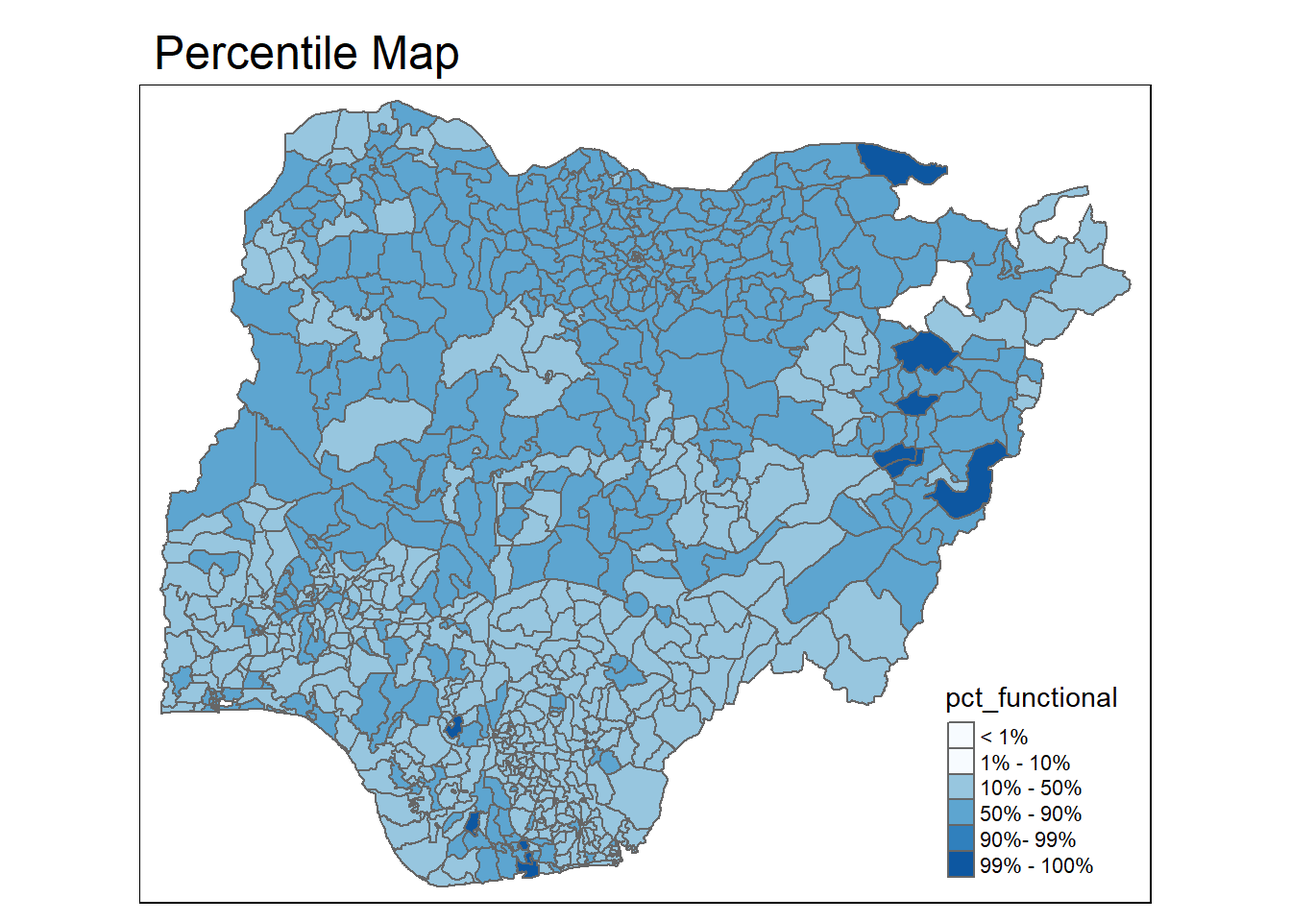
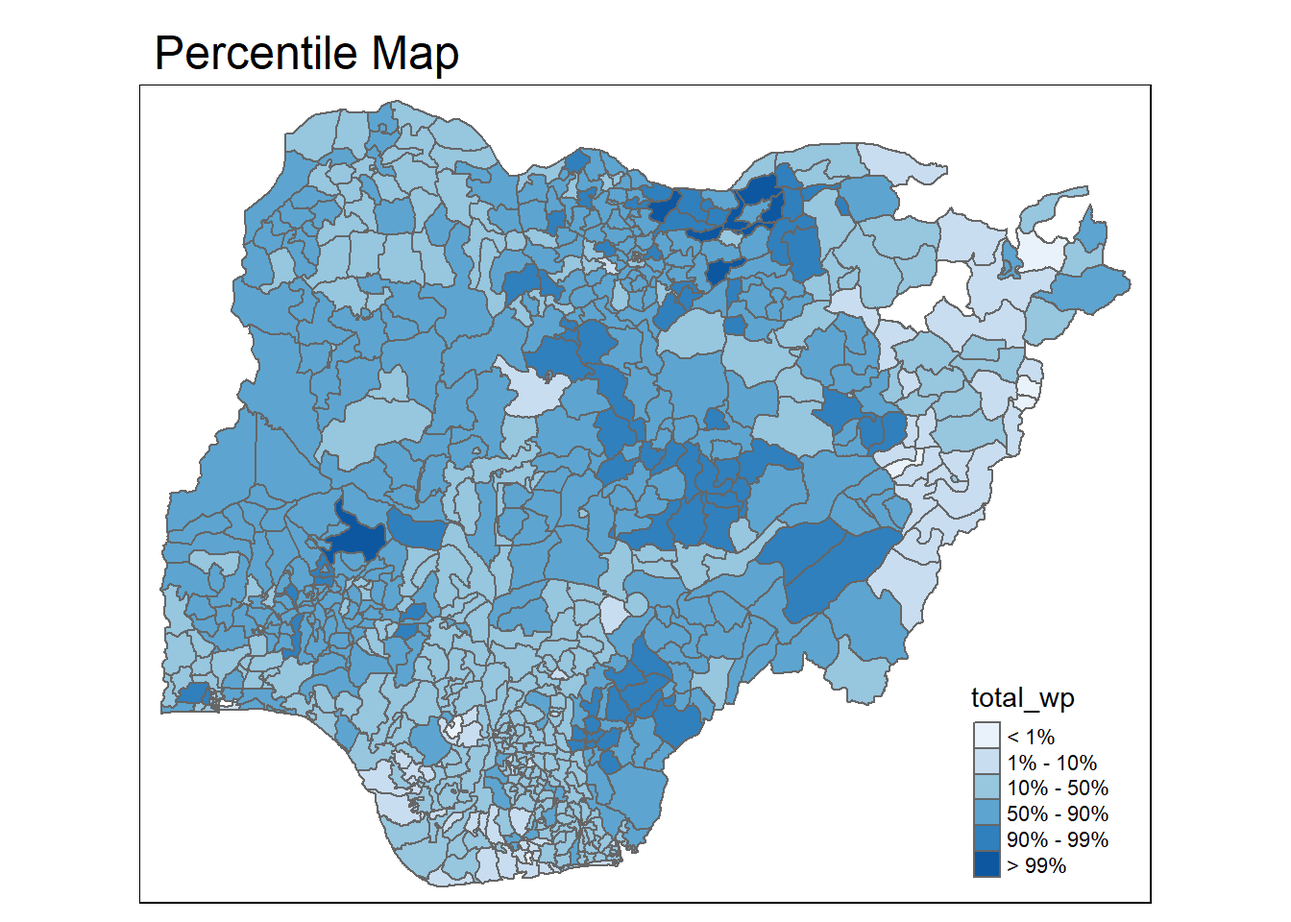
finish up ICE3

Changed region(s): [[0.125, 0.0938, 0.875, 0.9688], [0.7188, 0.75, 0.875, 0.9688]]

diff --git a/_site/in-class_ex/in-class_ex03/in-class_ex03.html b/_site/in-class_ex/in-class_ex03/in-class_ex03.html
@@ -197,9 +197,10 @@ code span.wa { color: #60a0b0; font-weight: bold; font-style: italic; } /* Warni
   <li><a href="#overview" id="toc-overview" class="nav-link active" data-scroll-target="#overview"><span class="toc-section-number">0.1</span>  Overview</a></li>
   <li><a href="#installing-and-loading-packages" id="toc-installing-and-loading-packages" class="nav-link" data-scroll-target="#installing-and-loading-packages"><span class="toc-section-number">0.2</span>  Installing and loading packages</a></li>
   <li><a href="#importing-data" id="toc-importing-data" class="nav-link" data-scroll-target="#importing-data"><span class="toc-section-number">0.3</span>  Importing data</a></li>
-  <li><a href="#visualizing-distribution-of-functional-and-non-functional-water-point" id="toc-visualizing-distribution-of-functional-and-non-functional-water-point" class="nav-link" data-scroll-target="#visualizing-distribution-of-functional-and-non-functional-water-point"><span class="toc-section-number">0.4</span>  Visualizing distribution of functional and non-functional water point</a></li>
+  <li><a href="#visualizing-distribution-of-functional-and-non-functional-water-point-using-choropleth-maps" id="toc-visualizing-distribution-of-functional-and-non-functional-water-point-using-choropleth-maps" class="nav-link" data-scroll-target="#visualizing-distribution-of-functional-and-non-functional-water-point-using-choropleth-maps"><span class="toc-section-number">0.4</span>  Visualizing distribution of functional and non-functional water point using Choropleth Maps</a></li>
   <li><a href="#visualization-using-a-percentile-map" id="toc-visualization-using-a-percentile-map" class="nav-link" data-scroll-target="#visualization-using-a-percentile-map"><span class="toc-section-number">0.5</span>  Visualization using a Percentile Map</a></li>
   <li><a href="#visualizing-using-a-box-plot" id="toc-visualizing-using-a-box-plot" class="nav-link" data-scroll-target="#visualizing-using-a-box-plot"><span class="toc-section-number">0.6</span>  Visualizing using a Box Plot</a></li>
+  <li><a href="#recode-to-zero" id="toc-recode-to-zero" class="nav-link" data-scroll-target="#recode-to-zero"><span class="toc-section-number">0.7</span>  Recode to zero</a></li>
   </ul>
 </nav>
     </div>
@@ -226,7 +227,7 @@ code span.wa { color: #60a0b0; font-weight: bold; font-style: italic; } /* Warni
     <div>
     <div class="quarto-title-meta-heading">Modified</div>
     <div class="quarto-title-meta-contents">
-      <p class="date-modified">January 25, 2023</p>
+      <p class="date-modified">January 26, 2023</p>
     </div>
   </div>
     
@@ -252,8 +253,8 @@ code span.wa { color: #60a0b0; font-weight: bold; font-style: italic; } /* Warni
 <div class="sourceCode cell-code" id="cb2"><pre class="sourceCode r code-with-copy"><code class="sourceCode r"><span id="cb2-1"><a href="#cb2-1" aria-hidden="true" tabindex="-1"></a>NGA_wp <span class="ot">&lt;-</span> <span class="fu">read_rds</span>(<span class="st">"data/rds/NGA_wp.rds"</span>)</span></code><button title="Copy to Clipboard" class="code-copy-button"><i class="bi"></i></button></pre></div>
 </div>
 </section>
-<section id="visualizing-distribution-of-functional-and-non-functional-water-point" class="level3" data-number="0.4">
-<h3 data-number="0.4" class="anchored" data-anchor-id="visualizing-distribution-of-functional-and-non-functional-water-point"><span class="header-section-number">0.4</span> Visualizing distribution of functional and non-functional water point</h3>
+<section id="visualizing-distribution-of-functional-and-non-functional-water-point-using-choropleth-maps" class="level3" data-number="0.4">
+<h3 data-number="0.4" class="anchored" data-anchor-id="visualizing-distribution-of-functional-and-non-functional-water-point-using-choropleth-maps"><span class="header-section-number">0.4</span> Visualizing distribution of functional and non-functional water point using Choropleth Maps</h3>
 <div class="cell">
 <div class="sourceCode cell-code" id="cb3"><pre class="sourceCode r code-with-copy"><code class="sourceCode r"><span id="cb3-1"><a href="#cb3-1" aria-hidden="true" tabindex="-1"></a>p1 <span class="ot">&lt;-</span> <span class="fu">tm_shape</span>(NGA_wp) <span class="sc">+</span> </span>
 <span id="cb3-2"><a href="#cb3-2" aria-hidden="true" tabindex="-1"></a>  <span class="fu">tm_fill</span>(<span class="st">"wp_functional"</span>,</span>
@@ -344,7 +345,8 @@ code span.wa { color: #60a0b0; font-weight: bold; font-style: italic; } /* Warni
 </div>
 </div>
 <div class="cell">
-<div class="sourceCode cell-code" id="cb6"><pre class="sourceCode r code-with-copy"><code class="sourceCode r"><span id="cb6-1"><a href="#cb6-1" aria-hidden="true" tabindex="-1"></a><span class="fu">tmap_arrange</span>(p2, p1, <span class="at">nrow=</span><span class="dv">1</span>)</span></code><button title="Copy to Clipboard" class="code-copy-button"><i class="bi"></i></button></pre></div>
+<div class="sourceCode cell-code" id="cb6"><pre class="sourceCode r code-with-copy"><code class="sourceCode r"><span id="cb6-1"><a href="#cb6-1" aria-hidden="true" tabindex="-1"></a><span class="co"># show both together on one row</span></span>
+<span id="cb6-2"><a href="#cb6-2" aria-hidden="true" tabindex="-1"></a><span class="fu">tmap_arrange</span>(p2, p1, <span class="at">nrow=</span><span class="dv">1</span>)</span></code><button title="Copy to Clipboard" class="code-copy-button"><i class="bi"></i></button></pre></div>
 <div class="cell-output-display">
 <p><img src="in-class_ex03_files/figure-html/unnamed-chunk-6-1.png" class="img-fluid" width="672"></p>
 </div>
@@ -353,7 +355,7 @@ code span.wa { color: #60a0b0; font-weight: bold; font-style: italic; } /* Warni
 <div class="sourceCode cell-code" id="cb7"><pre class="sourceCode r code-with-copy"><code class="sourceCode r"><span id="cb7-1"><a href="#cb7-1" aria-hidden="true" tabindex="-1"></a><span class="co"># You can even show both maps as one by using Rates: usually we do this to see if both categories tell the same story</span></span>
 <span id="cb7-2"><a href="#cb7-2" aria-hidden="true" tabindex="-1"></a>NGA_wp <span class="ot">&lt;-</span> NGA_wp <span class="sc">%&gt;%</span></span>
 <span id="cb7-3"><a href="#cb7-3" aria-hidden="true" tabindex="-1"></a>  </span>
-<span id="cb7-4"><a href="#cb7-4" aria-hidden="true" tabindex="-1"></a>  <span class="co"># calc % (i.e., rate) of functional and non-functional water points</span></span>
+<span id="cb7-4"><a href="#cb7-4" aria-hidden="true" tabindex="-1"></a>  <span class="co"># use mutate() to calc % (i.e., rate) of functional and non-functional water points</span></span>
 <span id="cb7-5"><a href="#cb7-5" aria-hidden="true" tabindex="-1"></a>  <span class="fu">mutate</span>(<span class="at">pct_functional =</span> wp_functional<span class="sc">/</span>total_wp) <span class="sc">%&gt;%</span></span>
 <span id="cb7-6"><a href="#cb7-6" aria-hidden="true" tabindex="-1"></a>  <span class="fu">mutate</span>(<span class="at">pct_nonfunctional =</span> wp_nonfunctional<span class="sc">/</span>total_wp)</span></code><button title="Copy to Clipboard" class="code-copy-button"><i class="bi"></i></button></pre></div>
 </div>
@@ -394,60 +396,151 @@ code span.wa { color: #60a0b0; font-weight: bold; font-style: italic; } /* Warni
 0.0000000 0.0000000 0.2169811 0.4791667 0.8611111 1.0000000 1.0000000 </code></pre>
 </div>
 </div>
+<section id="writing-functions-to-do-the-same-functionality-for-specific-data-sets" class="level4" data-number="0.5.1">
+<h4 data-number="0.5.1" class="anchored" data-anchor-id="writing-functions-to-do-the-same-functionality-for-specific-data-sets"><span class="header-section-number">0.5.1</span> Writing functions to do the same functionality for specific data sets…</h4>
 <div class="cell">
-<div class="sourceCode cell-code" id="cb11"><pre class="sourceCode r code-with-copy"><code class="sourceCode r"><span id="cb11-1"><a href="#cb11-1" aria-hidden="true" tabindex="-1"></a><span class="co"># creating a function to do whatever we did above so we can insert different objects to do the same thing</span></span>
+<div class="sourceCode cell-code" id="cb11"><pre class="sourceCode r code-with-copy"><code class="sourceCode r"><span id="cb11-1"><a href="#cb11-1" aria-hidden="true" tabindex="-1"></a><span class="co"># R function to extract a variable (i.e., wp_nonfunctional as a vector out of an sf data.frame)</span></span>
 <span id="cb11-2"><a href="#cb11-2" aria-hidden="true" tabindex="-1"></a>get.var <span class="ot">&lt;-</span> <span class="cf">function</span>(vname, df) {</span>
 <span id="cb11-3"><a href="#cb11-3" aria-hidden="true" tabindex="-1"></a>  v <span class="ot">&lt;-</span> df[vname] <span class="sc">%&gt;%</span></span>
 <span id="cb11-4"><a href="#cb11-4" aria-hidden="true" tabindex="-1"></a>    <span class="fu">st_set_geometry</span>(<span class="cn">NULL</span>)</span>
 <span id="cb11-5"><a href="#cb11-5" aria-hidden="true" tabindex="-1"></a>    v <span class="ot">&lt;-</span> <span class="fu">unname</span>(v[,<span class="dv">1</span>])</span>
-<span id="cb11-6"><a href="#cb11-6" aria-hidden="true" tabindex="-1"></a>  <span class="fu">return</span>(v)</span>
-<span id="cb11-7"><a href="#cb11-7" aria-hidden="true" tabindex="-1"></a>}</span></code><button title="Copy to Clipboard" class="code-copy-button"><i class="bi"></i></button></pre></div>
+<span id="cb11-6"><a href="#cb11-6" aria-hidden="true" tabindex="-1"></a>    </span>
+<span id="cb11-7"><a href="#cb11-7" aria-hidden="true" tabindex="-1"></a>  <span class="co"># return vector with values (without a col name)</span></span>
+<span id="cb11-8"><a href="#cb11-8" aria-hidden="true" tabindex="-1"></a>  <span class="fu">return</span>(v)</span>
+<span id="cb11-9"><a href="#cb11-9" aria-hidden="true" tabindex="-1"></a>}</span></code><button title="Copy to Clipboard" class="code-copy-button"><i class="bi"></i></button></pre></div>
 </div>
 <div class="cell">
-<div class="sourceCode cell-code" id="cb12"><pre class="sourceCode r code-with-copy"><code class="sourceCode r"><span id="cb12-1"><a href="#cb12-1" aria-hidden="true" tabindex="-1"></a>percentmap <span class="ot">&lt;-</span> <span class="cf">function</span>(vname, df, <span class="at">legtitle=</span><span class="cn">NA</span>, <span class="at">mtitle=</span><span class="st">"Percentile Map"</span>) {</span>
-<span id="cb12-2"><a href="#cb12-2" aria-hidden="true" tabindex="-1"></a>  percent <span class="ot">&lt;-</span> <span class="fu">c</span>(<span class="dv">0</span>, .<span class="dv">01</span>, .<span class="dv">1</span>, .<span class="dv">5</span>, .<span class="dv">9</span>, .<span class="dv">99</span>, <span class="dv">1</span>)</span>
-<span id="cb12-3"><a href="#cb12-3" aria-hidden="true" tabindex="-1"></a>  var <span class="ot">&lt;-</span> <span class="fu">quantile</span>(var, percent)</span>
-<span id="cb12-4"><a href="#cb12-4" aria-hidden="true" tabindex="-1"></a>  bperc <span class="ot">&lt;-</span> <span class="fu">quantile</span>(var, percent)</span>
-<span id="cb12-5"><a href="#cb12-5" aria-hidden="true" tabindex="-1"></a>  <span class="fu">tm_shape</span>(df) <span class="sc">+</span></span>
-<span id="cb12-6"><a href="#cb12-6" aria-hidden="true" tabindex="-1"></a>  <span class="fu">tm_polygons</span>() <span class="sc">+</span> </span>
-<span id="cb12-7"><a href="#cb12-7" aria-hidden="true" tabindex="-1"></a>  <span class="fu">tm_shape</span>(df) <span class="sc">+</span> </span>
-<span id="cb12-8"><a href="#cb12-8" aria-hidden="true" tabindex="-1"></a>    <span class="fu">tm_fill</span>(vname,</span>
-<span id="cb12-9"><a href="#cb12-9" aria-hidden="true" tabindex="-1"></a>            <span class="at">title=</span>legtitle,</span>
-<span id="cb12-10"><a href="#cb12-10" aria-hidden="true" tabindex="-1"></a>            <span class="at">breaks=</span>bperc,</span>
-<span id="cb12-11"><a href="#cb12-11" aria-hidden="true" tabindex="-1"></a>            <span class="at">palette=</span><span class="st">"Blues"</span>,</span>
-<span id="cb12-12"><a href="#cb12-12" aria-hidden="true" tabindex="-1"></a>            <span class="at">labels=</span><span class="fu">c</span>(<span class="st">"&lt; 1%"</span>, <span class="st">"1% - 10%"</span>, <span class="st">"10% - 50%"</span>, <span class="st">"50% - 90%"</span>, <span class="st">"90%- 99%"</span>, <span class="st">"99% - 100%"</span>)) <span class="sc">+</span> </span>
-<span id="cb12-13"><a href="#cb12-13" aria-hidden="true" tabindex="-1"></a>    <span class="fu">tm_borders</span>() <span class="sc">+</span></span>
-<span id="cb12-14"><a href="#cb12-14" aria-hidden="true" tabindex="-1"></a>    <span class="fu">tm_layout</span>(<span class="at">main.title =</span> mtitle,</span>
-<span id="cb12-15"><a href="#cb12-15" aria-hidden="true" tabindex="-1"></a>              <span class="at">title.position =</span> <span class="fu">c</span>(<span class="st">"right"</span>, <span class="st">"bottom"</span>))</span>
-<span id="cb12-16"><a href="#cb12-16" aria-hidden="true" tabindex="-1"></a>}</span></code><button title="Copy to Clipboard" class="code-copy-button"><i class="bi"></i></button></pre></div>
+<div class="sourceCode cell-code" id="cb12"><pre class="sourceCode r code-with-copy"><code class="sourceCode r"><span id="cb12-1"><a href="#cb12-1" aria-hidden="true" tabindex="-1"></a><span class="co"># percentile mapping function</span></span>
+<span id="cb12-2"><a href="#cb12-2" aria-hidden="true" tabindex="-1"></a>percentmap <span class="ot">&lt;-</span> <span class="cf">function</span>(vnam, df, <span class="at">legtitle=</span><span class="cn">NA</span>, <span class="at">mtitle=</span><span class="st">"Percentile Map"</span>){</span>
+<span id="cb12-3"><a href="#cb12-3" aria-hidden="true" tabindex="-1"></a>  percent <span class="ot">&lt;-</span> <span class="fu">c</span>(<span class="dv">0</span>,.<span class="dv">01</span>,.<span class="dv">1</span>,.<span class="dv">5</span>,.<span class="dv">9</span>,.<span class="dv">99</span>,<span class="dv">1</span>)</span>
+<span id="cb12-4"><a href="#cb12-4" aria-hidden="true" tabindex="-1"></a>  var <span class="ot">&lt;-</span> <span class="fu">get.var</span>(vnam, df)</span>
+<span id="cb12-5"><a href="#cb12-5" aria-hidden="true" tabindex="-1"></a>  bperc <span class="ot">&lt;-</span> <span class="fu">quantile</span>(var, percent)</span>
+<span id="cb12-6"><a href="#cb12-6" aria-hidden="true" tabindex="-1"></a>  <span class="fu">tm_shape</span>(df) <span class="sc">+</span></span>
+<span id="cb12-7"><a href="#cb12-7" aria-hidden="true" tabindex="-1"></a>  <span class="fu">tm_polygons</span>() <span class="sc">+</span></span>
+<span id="cb12-8"><a href="#cb12-8" aria-hidden="true" tabindex="-1"></a>  <span class="fu">tm_shape</span>(df) <span class="sc">+</span></span>
+<span id="cb12-9"><a href="#cb12-9" aria-hidden="true" tabindex="-1"></a>     <span class="fu">tm_fill</span>(vnam,</span>
+<span id="cb12-10"><a href="#cb12-10" aria-hidden="true" tabindex="-1"></a>             <span class="at">title=</span>legtitle,</span>
+<span id="cb12-11"><a href="#cb12-11" aria-hidden="true" tabindex="-1"></a>             <span class="at">breaks=</span>bperc,</span>
+<span id="cb12-12"><a href="#cb12-12" aria-hidden="true" tabindex="-1"></a>             <span class="at">palette=</span><span class="st">"Blues"</span>,</span>
+<span id="cb12-13"><a href="#cb12-13" aria-hidden="true" tabindex="-1"></a>          <span class="at">labels=</span><span class="fu">c</span>(<span class="st">"&lt; 1%"</span>, <span class="st">"1% - 10%"</span>, <span class="st">"10% - 50%"</span>, <span class="st">"50% - 90%"</span>, <span class="st">"90% - 99%"</span>, <span class="st">"&gt; 99%"</span>))  <span class="sc">+</span></span>
+<span id="cb12-14"><a href="#cb12-14" aria-hidden="true" tabindex="-1"></a>  <span class="fu">tm_borders</span>() <span class="sc">+</span></span>
+<span id="cb12-15"><a href="#cb12-15" aria-hidden="true" tabindex="-1"></a>  <span class="fu">tm_layout</span>(<span class="at">main.title =</span> mtitle, </span>
+<span id="cb12-16"><a href="#cb12-16" aria-hidden="true" tabindex="-1"></a>            <span class="at">title.position =</span> <span class="fu">c</span>(<span class="st">"right"</span>,<span class="st">"bottom"</span>))</span>
+<span id="cb12-17"><a href="#cb12-17" aria-hidden="true" tabindex="-1"></a>}</span></code><button title="Copy to Clipboard" class="code-copy-button"><i class="bi"></i></button></pre></div>
 </div>
 <div class="cell">
-<div class="sourceCode cell-code" id="cb13"><pre class="sourceCode r code-with-copy"><code class="sourceCode r"><span id="cb13-1"><a href="#cb13-1" aria-hidden="true" tabindex="-1"></a>var <span class="ot">=</span> <span class="fu">get.var</span>(<span class="st">"pct_functional"</span>, NGA_wp)</span>
-<span id="cb13-2"><a href="#cb13-2" aria-hidden="true" tabindex="-1"></a><span class="fu">percentmap</span>(<span class="st">"pct_functional"</span>, NGA_wp,)</span></code><button title="Copy to Clipboard" class="code-copy-button"><i class="bi"></i></button></pre></div>
+<div class="sourceCode cell-code" id="cb13"><pre class="sourceCode r code-with-copy"><code class="sourceCode r"><span id="cb13-1"><a href="#cb13-1" aria-hidden="true" tabindex="-1"></a><span class="co"># test the function</span></span>
+<span id="cb13-2"><a href="#cb13-2" aria-hidden="true" tabindex="-1"></a><span class="fu">percentmap</span>(<span class="st">"total_wp"</span>, NGA_wp)</span></code><button title="Copy to Clipboard" class="code-copy-button"><i class="bi"></i></button></pre></div>
 <div class="cell-output-display">
 <p><img src="in-class_ex03_files/figure-html/unnamed-chunk-12-1.png" class="img-fluid" width="672"></p>
 </div>
 </div>
-<div class="cell">
-<div class="sourceCode cell-code" id="cb14"><pre class="sourceCode r code-with-copy"><code class="sourceCode r"><span id="cb14-1"><a href="#cb14-1" aria-hidden="true" tabindex="-1"></a><span class="fu">percentmap</span>(<span class="st">"pct_nonfunctional"</span>, NGA_wp)</span></code><button title="Copy to Clipboard" class="code-copy-button"><i class="bi"></i></button></pre></div>
-<div class="cell-output-display">
-<p><img src="in-class_ex03_files/figure-html/unnamed-chunk-13-1.png" class="img-fluid" width="672"></p>
-</div>
-</div>
+</section>
 </section>
 <section id="visualizing-using-a-box-plot" class="level3" data-number="0.6">
 <h3 data-number="0.6" class="anchored" data-anchor-id="visualizing-using-a-box-plot"><span class="header-section-number">0.6</span> Visualizing using a Box Plot</h3>
 <div class="cell">
-<div class="sourceCode cell-code" id="cb15"><pre class="sourceCode r code-with-copy"><code class="sourceCode r"><span id="cb15-1"><a href="#cb15-1" aria-hidden="true" tabindex="-1"></a><span class="fu">ggplot</span>(<span class="at">data =</span> NGA_wp,</span>
-<span id="cb15-2"><a href="#cb15-2" aria-hidden="true" tabindex="-1"></a>       <span class="fu">aes</span>(<span class="at">x =</span> <span class="st">""</span>,</span>
-<span id="cb15-3"><a href="#cb15-3" aria-hidden="true" tabindex="-1"></a>           <span class="at">y =</span> wp_nonfunctional)) <span class="sc">+</span> </span>
-<span id="cb15-4"><a href="#cb15-4" aria-hidden="true" tabindex="-1"></a>  <span class="fu">geom_boxplot</span>()</span></code><button title="Copy to Clipboard" class="code-copy-button"><i class="bi"></i></button></pre></div>
+<div class="sourceCode cell-code" id="cb14"><pre class="sourceCode r code-with-copy"><code class="sourceCode r"><span id="cb14-1"><a href="#cb14-1" aria-hidden="true" tabindex="-1"></a><span class="co"># boxplot is as augmented quartile map with an additional lower and upper category.</span></span>
+<span id="cb14-2"><a href="#cb14-2" aria-hidden="true" tabindex="-1"></a><span class="fu">ggplot</span>(<span class="at">data =</span> NGA_wp,</span>
+<span id="cb14-3"><a href="#cb14-3" aria-hidden="true" tabindex="-1"></a>       <span class="fu">aes</span>(<span class="at">x =</span> <span class="st">""</span>,</span>
+<span id="cb14-4"><a href="#cb14-4" aria-hidden="true" tabindex="-1"></a>           <span class="at">y =</span> wp_nonfunctional)) <span class="sc">+</span> </span>
+<span id="cb14-5"><a href="#cb14-5" aria-hidden="true" tabindex="-1"></a>  <span class="fu">geom_boxplot</span>()</span></code><button title="Copy to Clipboard" class="code-copy-button"><i class="bi"></i></button></pre></div>
 <div class="cell-output-display">
-<p><img src="in-class_ex03_files/figure-html/unnamed-chunk-14-1.png" class="img-fluid" width="672"></p>
+<p><img src="in-class_ex03_files/figure-html/unnamed-chunk-13-1.png" class="img-fluid" width="672"></p>
 </div>
 </div>
 <div class="cell">
-<div class="sourceCode cell-code" id="cb16"><pre class="sourceCode r code-with-copy"><code class="sourceCode r"><span id="cb16-1"><a href="#cb16-1" aria-hidden="true" tabindex="-1"></a><span class="co"># creating a boxplot function</span></span></code><button title="Copy to Clipboard" class="code-copy-button"><i class="bi"></i></button></pre></div>
+<div class="sourceCode cell-code" id="cb15"><pre class="sourceCode r code-with-copy"><code class="sourceCode r"><span id="cb15-1"><a href="#cb15-1" aria-hidden="true" tabindex="-1"></a><span class="co"># creating a boxbreaks function</span></span>
+<span id="cb15-2"><a href="#cb15-2" aria-hidden="true" tabindex="-1"></a><span class="co"># arguments - v: vector with observations, mult: multiplier for IQR (default 1.5)</span></span>
+<span id="cb15-3"><a href="#cb15-3" aria-hidden="true" tabindex="-1"></a><span class="co"># returns - bb: vector with 7 breakpoints compute quartile and fences</span></span>
+<span id="cb15-4"><a href="#cb15-4" aria-hidden="true" tabindex="-1"></a></span>
+<span id="cb15-5"><a href="#cb15-5" aria-hidden="true" tabindex="-1"></a>boxbreaks <span class="ot">&lt;-</span> <span class="cf">function</span>(v,<span class="at">mult=</span><span class="fl">1.5</span>) {</span>
+<span id="cb15-6"><a href="#cb15-6" aria-hidden="true" tabindex="-1"></a>  qv <span class="ot">&lt;-</span> <span class="fu">unname</span>(<span class="fu">quantile</span>(v))</span>
+<span id="cb15-7"><a href="#cb15-7" aria-hidden="true" tabindex="-1"></a>  iqr <span class="ot">&lt;-</span> qv[<span class="dv">4</span>] <span class="sc">-</span> qv[<span class="dv">2</span>]</span>
+<span id="cb15-8"><a href="#cb15-8" aria-hidden="true" tabindex="-1"></a>  upfence <span class="ot">&lt;-</span> qv[<span class="dv">4</span>] <span class="sc">+</span> mult <span class="sc">*</span> iqr</span>
+<span id="cb15-9"><a href="#cb15-9" aria-hidden="true" tabindex="-1"></a>  lofence <span class="ot">&lt;-</span> qv[<span class="dv">2</span>] <span class="sc">-</span> mult <span class="sc">*</span> iqr</span>
+<span id="cb15-10"><a href="#cb15-10" aria-hidden="true" tabindex="-1"></a>  <span class="co"># initialize break points vector</span></span>
+<span id="cb15-11"><a href="#cb15-11" aria-hidden="true" tabindex="-1"></a>  bb <span class="ot">&lt;-</span> <span class="fu">vector</span>(<span class="at">mode=</span><span class="st">"numeric"</span>,<span class="at">length=</span><span class="dv">7</span>)</span>
+<span id="cb15-12"><a href="#cb15-12" aria-hidden="true" tabindex="-1"></a>  <span class="co"># logic for lower and upper fences</span></span>
+<span id="cb15-13"><a href="#cb15-13" aria-hidden="true" tabindex="-1"></a>  <span class="cf">if</span> (lofence <span class="sc">&lt;</span> qv[<span class="dv">1</span>]) {  <span class="co"># no lower outliers</span></span>
+<span id="cb15-14"><a href="#cb15-14" aria-hidden="true" tabindex="-1"></a>    bb[<span class="dv">1</span>] <span class="ot">&lt;-</span> lofence</span>
+<span id="cb15-15"><a href="#cb15-15" aria-hidden="true" tabindex="-1"></a>    bb[<span class="dv">2</span>] <span class="ot">&lt;-</span> <span class="fu">floor</span>(qv[<span class="dv">1</span>])</span>
+<span id="cb15-16"><a href="#cb15-16" aria-hidden="true" tabindex="-1"></a>  } <span class="cf">else</span> {</span>
+<span id="cb15-17"><a href="#cb15-17" aria-hidden="true" tabindex="-1"></a>    bb[<span class="dv">2</span>] <span class="ot">&lt;-</span> lofence</span>
+<span id="cb15-18"><a href="#cb15-18" aria-hidden="true" tabindex="-1"></a>    bb[<span class="dv">1</span>] <span class="ot">&lt;-</span> qv[<span class="dv">1</span>]</span>
+<span id="cb15-19"><a href="#cb15-19" aria-hidden="true" tabindex="-1"></a>  }</span>
+<span id="cb15-20"><a href="#cb15-20" aria-hidden="true" tabindex="-1"></a>  <span class="cf">if</span> (upfence <span class="sc">&gt;</span> qv[<span class="dv">5</span>]) { <span class="co"># no upper outliers</span></span>
+<span id="cb15-21"><a href="#cb15-21" aria-hidden="true" tabindex="-1"></a>    bb[<span class="dv">7</span>] <span class="ot">&lt;-</span> upfence</span>
+<span id="cb15-22"><a href="#cb15-22" aria-hidden="true" tabindex="-1"></a>    bb[<span class="dv">6</span>] <span class="ot">&lt;-</span> <span class="fu">ceiling</span>(qv[<span class="dv">5</span>])</span>
+<span id="cb15-23"><a href="#cb15-23" aria-hidden="true" tabindex="-1"></a>  } <span class="cf">else</span> {</span>
+<span id="cb15-24"><a href="#cb15-24" aria-hidden="true" tabindex="-1"></a>    bb[<span class="dv">6</span>] <span class="ot">&lt;-</span> upfence</span>
+<span id="cb15-25"><a href="#cb15-25" aria-hidden="true" tabindex="-1"></a>    bb[<span class="dv">7</span>] <span class="ot">&lt;-</span> qv[<span class="dv">5</span>]</span>
+<span id="cb15-26"><a href="#cb15-26" aria-hidden="true" tabindex="-1"></a>  }</span>
+<span id="cb15-27"><a href="#cb15-27" aria-hidden="true" tabindex="-1"></a>  bb[<span class="dv">3</span><span class="sc">:</span><span class="dv">5</span>] <span class="ot">&lt;-</span> qv[<span class="dv">2</span><span class="sc">:</span><span class="dv">4</span>]</span>
+<span id="cb15-28"><a href="#cb15-28" aria-hidden="true" tabindex="-1"></a>  <span class="fu">return</span>(bb)</span>
+<span id="cb15-29"><a href="#cb15-29" aria-hidden="true" tabindex="-1"></a>}</span></code><button title="Copy to Clipboard" class="code-copy-button"><i class="bi"></i></button></pre></div>
+</div>
+<div class="cell">
+<div class="sourceCode cell-code" id="cb16"><pre class="sourceCode r code-with-copy"><code class="sourceCode r"><span id="cb16-1"><a href="#cb16-1" aria-hidden="true" tabindex="-1"></a><span class="co"># creating the get.var function</span></span>
+<span id="cb16-2"><a href="#cb16-2" aria-hidden="true" tabindex="-1"></a><span class="co"># arguments - vname: variable name (in quotes), df: name of sf data.frame</span></span>
+<span id="cb16-3"><a href="#cb16-3" aria-hidden="true" tabindex="-1"></a><span class="co"># returns - v: vector with values (without col name)</span></span>
+<span id="cb16-4"><a href="#cb16-4" aria-hidden="true" tabindex="-1"></a>get.var <span class="ot">&lt;-</span> <span class="cf">function</span>(vname,df) {</span>
+<span id="cb16-5"><a href="#cb16-5" aria-hidden="true" tabindex="-1"></a>  v <span class="ot">&lt;-</span> df[vname] <span class="sc">%&gt;%</span> <span class="fu">st_set_geometry</span>(<span class="cn">NULL</span>)</span>
+<span id="cb16-6"><a href="#cb16-6" aria-hidden="true" tabindex="-1"></a>  v <span class="ot">&lt;-</span> <span class="fu">unname</span>(v[,<span class="dv">1</span>])</span>
+<span id="cb16-7"><a href="#cb16-7" aria-hidden="true" tabindex="-1"></a>  <span class="fu">return</span>(v)</span>
+<span id="cb16-8"><a href="#cb16-8" aria-hidden="true" tabindex="-1"></a>}</span></code><button title="Copy to Clipboard" class="code-copy-button"><i class="bi"></i></button></pre></div>
+</div>
+<div class="cell">
+<div class="sourceCode cell-code" id="cb17"><pre class="sourceCode r code-with-copy"><code class="sourceCode r"><span id="cb17-1"><a href="#cb17-1" aria-hidden="true" tabindex="-1"></a><span class="co"># test function</span></span>
+<span id="cb17-2"><a href="#cb17-2" aria-hidden="true" tabindex="-1"></a>var <span class="ot">&lt;-</span> <span class="fu">get.var</span>(<span class="st">"wp_nonfunctional"</span>, NGA_wp) </span>
+<span id="cb17-3"><a href="#cb17-3" aria-hidden="true" tabindex="-1"></a><span class="fu">boxbreaks</span>(var)</span></code><button title="Copy to Clipboard" class="code-copy-button"><i class="bi"></i></button></pre></div>
+<div class="cell-output cell-output-stdout">
+<pre><code>[1] -56.5   0.0  14.0  34.0  61.0 131.5 278.0</code></pre>
+</div>
+</div>
+<section id="boxmap-function" class="level4" data-number="0.6.1">
+<h4 data-number="0.6.1" class="anchored" data-anchor-id="boxmap-function"><span class="header-section-number">0.6.1</span> Boxmap function</h4>
+<div class="cell">
+<div class="sourceCode cell-code" id="cb19"><pre class="sourceCode r code-with-copy"><code class="sourceCode r"><span id="cb19-1"><a href="#cb19-1" aria-hidden="true" tabindex="-1"></a>boxmap <span class="ot">&lt;-</span> <span class="cf">function</span>(vnam, df, </span>
+<span id="cb19-2"><a href="#cb19-2" aria-hidden="true" tabindex="-1"></a>                   <span class="at">legtitle=</span><span class="cn">NA</span>,</span>
+<span id="cb19-3"><a href="#cb19-3" aria-hidden="true" tabindex="-1"></a>                   <span class="at">mtitle=</span><span class="st">"Box Map"</span>,</span>
+<span id="cb19-4"><a href="#cb19-4" aria-hidden="true" tabindex="-1"></a>                   <span class="at">mult=</span><span class="fl">1.5</span>){</span>
+<span id="cb19-5"><a href="#cb19-5" aria-hidden="true" tabindex="-1"></a>  var <span class="ot">&lt;-</span> <span class="fu">get.var</span>(vnam,df)</span>
+<span id="cb19-6"><a href="#cb19-6" aria-hidden="true" tabindex="-1"></a>  bb <span class="ot">&lt;-</span> <span class="fu">boxbreaks</span>(var)</span>
+<span id="cb19-7"><a href="#cb19-7" aria-hidden="true" tabindex="-1"></a>  <span class="fu">tm_shape</span>(df) <span class="sc">+</span></span>
+<span id="cb19-8"><a href="#cb19-8" aria-hidden="true" tabindex="-1"></a>    <span class="fu">tm_polygons</span>() <span class="sc">+</span></span>
+<span id="cb19-9"><a href="#cb19-9" aria-hidden="true" tabindex="-1"></a>  <span class="fu">tm_shape</span>(df) <span class="sc">+</span></span>
+<span id="cb19-10"><a href="#cb19-10" aria-hidden="true" tabindex="-1"></a>     <span class="fu">tm_fill</span>(vnam,<span class="at">title=</span>legtitle,</span>
+<span id="cb19-11"><a href="#cb19-11" aria-hidden="true" tabindex="-1"></a>             <span class="at">breaks=</span>bb,</span>
+<span id="cb19-12"><a href="#cb19-12" aria-hidden="true" tabindex="-1"></a>             <span class="at">palette=</span><span class="st">"Set3"</span>,</span>
+<span id="cb19-13"><a href="#cb19-13" aria-hidden="true" tabindex="-1"></a>          <span class="at">labels =</span> <span class="fu">c</span>(<span class="st">"lower outlier"</span>, </span>
+<span id="cb19-14"><a href="#cb19-14" aria-hidden="true" tabindex="-1"></a>                     <span class="st">"&lt; 25%"</span>, </span>
+<span id="cb19-15"><a href="#cb19-15" aria-hidden="true" tabindex="-1"></a>                     <span class="st">"25% - 50%"</span>, </span>
+<span id="cb19-16"><a href="#cb19-16" aria-hidden="true" tabindex="-1"></a>                     <span class="st">"50% - 75%"</span>,</span>
+<span id="cb19-17"><a href="#cb19-17" aria-hidden="true" tabindex="-1"></a>                     <span class="st">"&gt; 75%"</span>, </span>
+<span id="cb19-18"><a href="#cb19-18" aria-hidden="true" tabindex="-1"></a>                     <span class="st">"upper outlier"</span>))  <span class="sc">+</span></span>
+<span id="cb19-19"><a href="#cb19-19" aria-hidden="true" tabindex="-1"></a>  <span class="fu">tm_borders</span>() <span class="sc">+</span></span>
+<span id="cb19-20"><a href="#cb19-20" aria-hidden="true" tabindex="-1"></a>  <span class="fu">tm_layout</span>(<span class="at">main.title =</span> mtitle, </span>
+<span id="cb19-21"><a href="#cb19-21" aria-hidden="true" tabindex="-1"></a>            <span class="at">title.position =</span> <span class="fu">c</span>(<span class="st">"left"</span>,</span>
+<span id="cb19-22"><a href="#cb19-22" aria-hidden="true" tabindex="-1"></a>                               <span class="st">"top"</span>))</span>
+<span id="cb19-23"><a href="#cb19-23" aria-hidden="true" tabindex="-1"></a>}</span></code><button title="Copy to Clipboard" class="code-copy-button"><i class="bi"></i></button></pre></div>
+</div>
+<div class="cell">
+<div class="sourceCode cell-code" id="cb20"><pre class="sourceCode r code-with-copy"><code class="sourceCode r"><span id="cb20-1"><a href="#cb20-1" aria-hidden="true" tabindex="-1"></a><span class="fu">tmap_mode</span>(<span class="st">"plot"</span>)</span>
+<span id="cb20-2"><a href="#cb20-2" aria-hidden="true" tabindex="-1"></a><span class="fu">boxmap</span>(<span class="st">"wp_nonfunctional"</span>, NGA_wp)</span></code><button title="Copy to Clipboard" class="code-copy-button"><i class="bi"></i></button></pre></div>
+<div class="cell-output-display">
+<p><img src="in-class_ex03_files/figure-html/unnamed-chunk-18-1.png" class="img-fluid" width="672"></p>
+</div>
+</div>
+</section>
+</section>
+<section id="recode-to-zero" class="level3" data-number="0.7">
+<h3 data-number="0.7" class="anchored" data-anchor-id="recode-to-zero"><span class="header-section-number">0.7</span> Recode to zero</h3>
+<p>This code chunk is used to recode LGAs with zero total water points into NA.</p>
+<div class="cell">
+<div class="sourceCode cell-code" id="cb21"><pre class="sourceCode r code-with-copy"><code class="sourceCode r"><span id="cb21-1"><a href="#cb21-1" aria-hidden="true" tabindex="-1"></a>NGA_wp <span class="ot">&lt;-</span> NGA_wp <span class="sc">%&gt;%</span></span>
+<span id="cb21-2"><a href="#cb21-2" aria-hidden="true" tabindex="-1"></a>  <span class="fu">mutate</span>(<span class="at">wp_functional =</span> <span class="fu">na_if</span>(</span>
+<span id="cb21-3"><a href="#cb21-3" aria-hidden="true" tabindex="-1"></a>    total_wp, total_wp <span class="sc">&lt;</span> <span class="dv">0</span>))</span></code><button title="Copy to Clipboard" class="code-copy-button"><i class="bi"></i></button></pre></div>
 </div>
 
 
